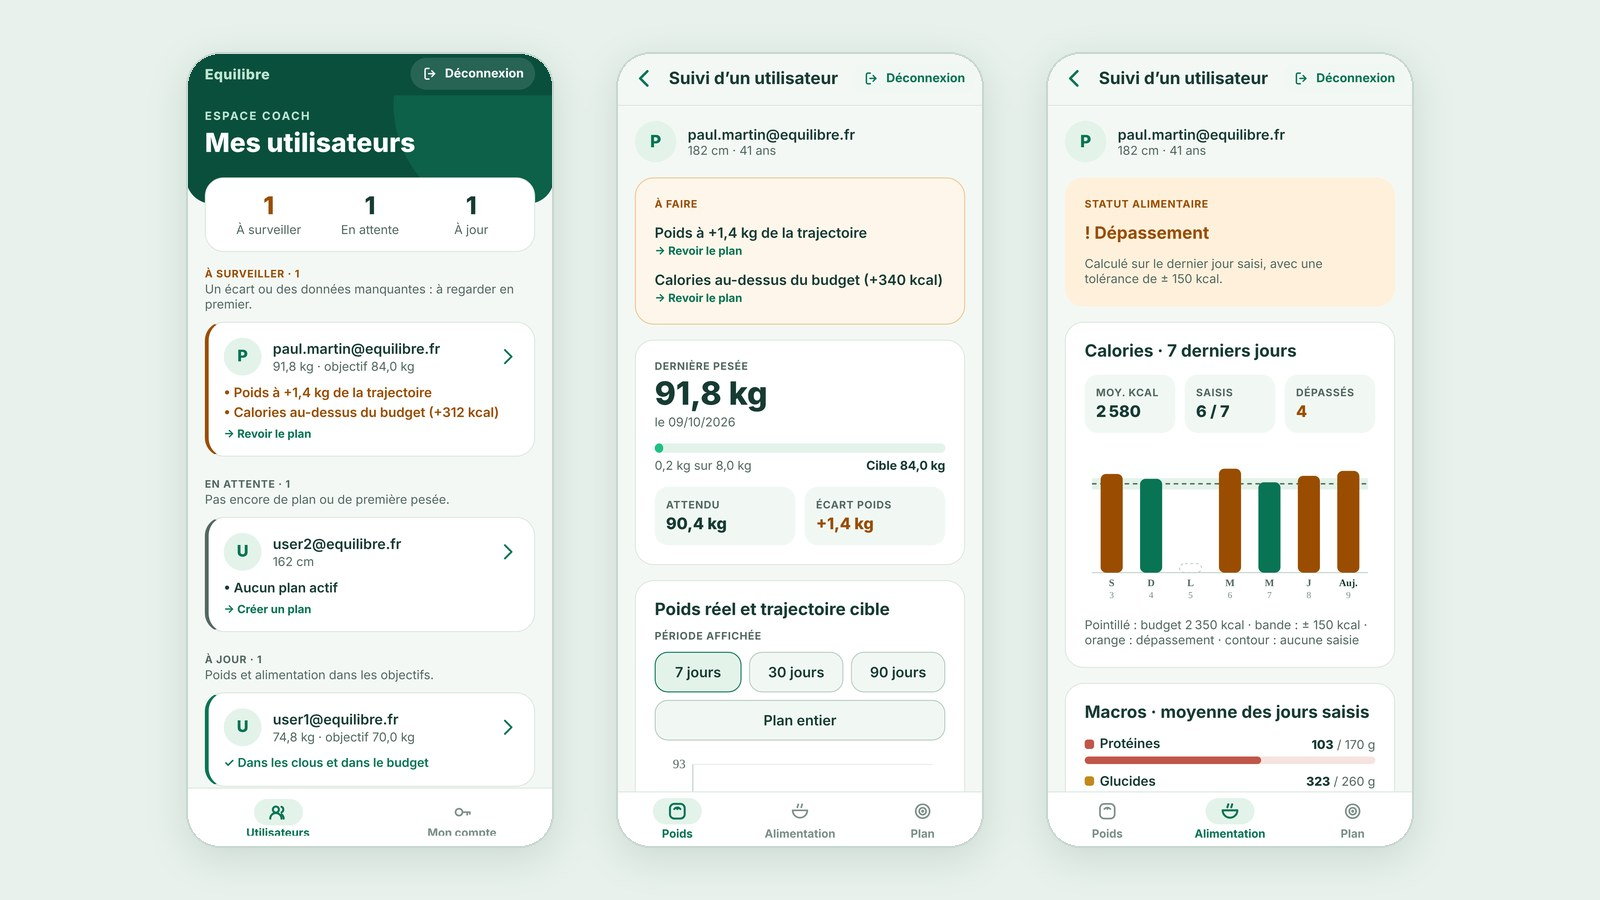
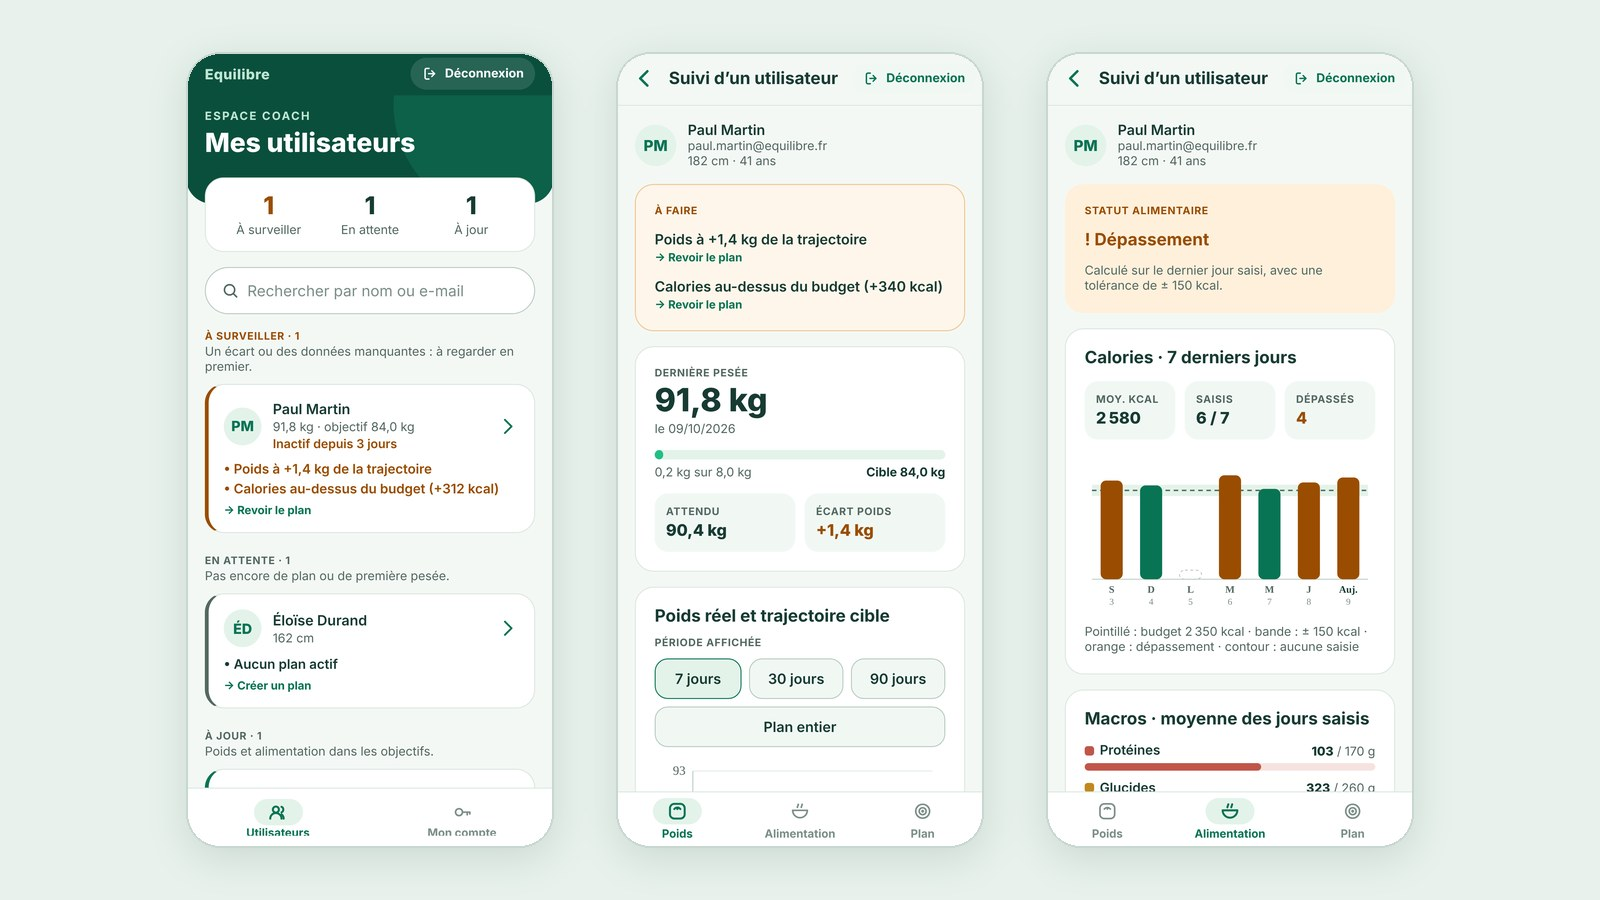
Equilibre : captures a jour (identite des comptes, recherche coach)

diff --git a/lib/projects.ts b/lib/projects.ts
@@ -46,11 +46,11 @@ export const projects: Project[] = [
             apk: 'https://equilibre.164-132-246-49.sslip.io/telechargements/equilibre.apk',
         },
         screenshots: [
-            { url: '/images/equilibre-connexion.jpg', title: 'Connexion et profil', description: 'Connexion ou inscription avec le code du coach. Le profil (taille, âge, sexe) sert au calcul du plan et du budget calorique ; bouton Déconnexion visible en haut de chaque écran.', titleEn: 'Login and profile', descriptionEn: 'Log in or sign up with the coach’s code. The profile (height, age, sex) feeds the plan and calorie budget; a Logout button sits at the top of every screen.' },
+            { url: '/images/equilibre-connexion.jpg', title: 'Connexion et profil', description: 'Inscription avec prénom, nom et code du coach. Le profil affiche le coach par son nom ; taille, âge et sexe servent au calcul du plan et du budget calorique. Bouton Déconnexion visible en haut de chaque écran.', titleEn: 'Login and profile', descriptionEn: 'Sign up with first name, last name and the coach’s code. The profile shows the coach by name; height, age and sex feed the plan and calorie budget. A Logout button sits at the top of every screen.' },
             { url: '/images/equilibre-suivi-poids.jpg', title: 'Suivi du poids', description: 'Dernière pesée, avancement vers la cible et écart à la trajectoire en une phrase ; courbe poids réel / trajectoire, budget du jour et historique des pesées de la balance connectée simulée.', titleEn: 'Weight tracking', descriptionEn: 'Latest weigh-in, progress towards the target and the gap to the trajectory in one sentence; actual weight vs. trajectory chart, daily budget and history of readings from the simulated connected scale.' },
             { url: '/images/equilibre-journal.jpg', title: 'Journal alimentaire', description: 'Calories restantes, macros consommées face aux cibles et aliments du jour par repas ; chaque entrée se modifie (quantité, repas) ou se retire. Fonctionne hors ligne, synchronisé avec l’API.', titleEn: 'Food diary', descriptionEn: 'Remaining calories, macros against targets and today’s foods by meal; each entry can be edited (quantity, meal) or removed. Works offline and syncs with the API.' },
             { url: '/images/equilibre-ajout.jpg', title: 'Ajout d’un aliment', description: 'Bibliothèque filtrable (Tous, Récents, Favoris, familles) et feuille d’ajout : portion usuelle pré-remplie, repas présélectionné selon l’heure, calories et budget restant avant validation.', titleEn: 'Adding a food', descriptionEn: 'Filterable library (All, Recents, Favourites, families) and an add sheet: usual portion pre-filled, meal pre-selected by time of day, calories and remaining budget before confirming.' },
-            { url: '/images/equilibre-coach.jpg', title: 'Suivi coach', description: 'Utilisateurs classés par priorité (à surveiller, en attente, à jour) avec la raison et l’action proposée ; fiche en onglets Poids, Alimentation (calories 7 jours, macros moyennes) et Plan. Totaux journaliers uniquement.', titleEn: 'Coach follow-up', descriptionEn: 'Users ranked by priority (to watch, pending, up to date) with the reason and suggested action; a tabbed profile with Weight, Nutrition (7-day calories, average macros) and Plan. Daily totals only.' },
+            { url: '/images/equilibre-coach.jpg', title: 'Suivi coach', description: 'Utilisateurs identifiés par leur nom, classés par priorité (à surveiller, en attente, à jour) avec la raison, l’action proposée et la dernière activité ; recherche par nom. Fiche en onglets Poids, Alimentation (calories 7 jours, macros moyennes) et Plan.', titleEn: 'Coach follow-up', descriptionEn: 'Users shown by name, ranked by priority (to watch, pending, up to date) with the reason, suggested action and last activity; search by name. A tabbed profile with Weight, Nutrition (7-day calories, average macros) and Plan.' },
         ],
     },
     {
